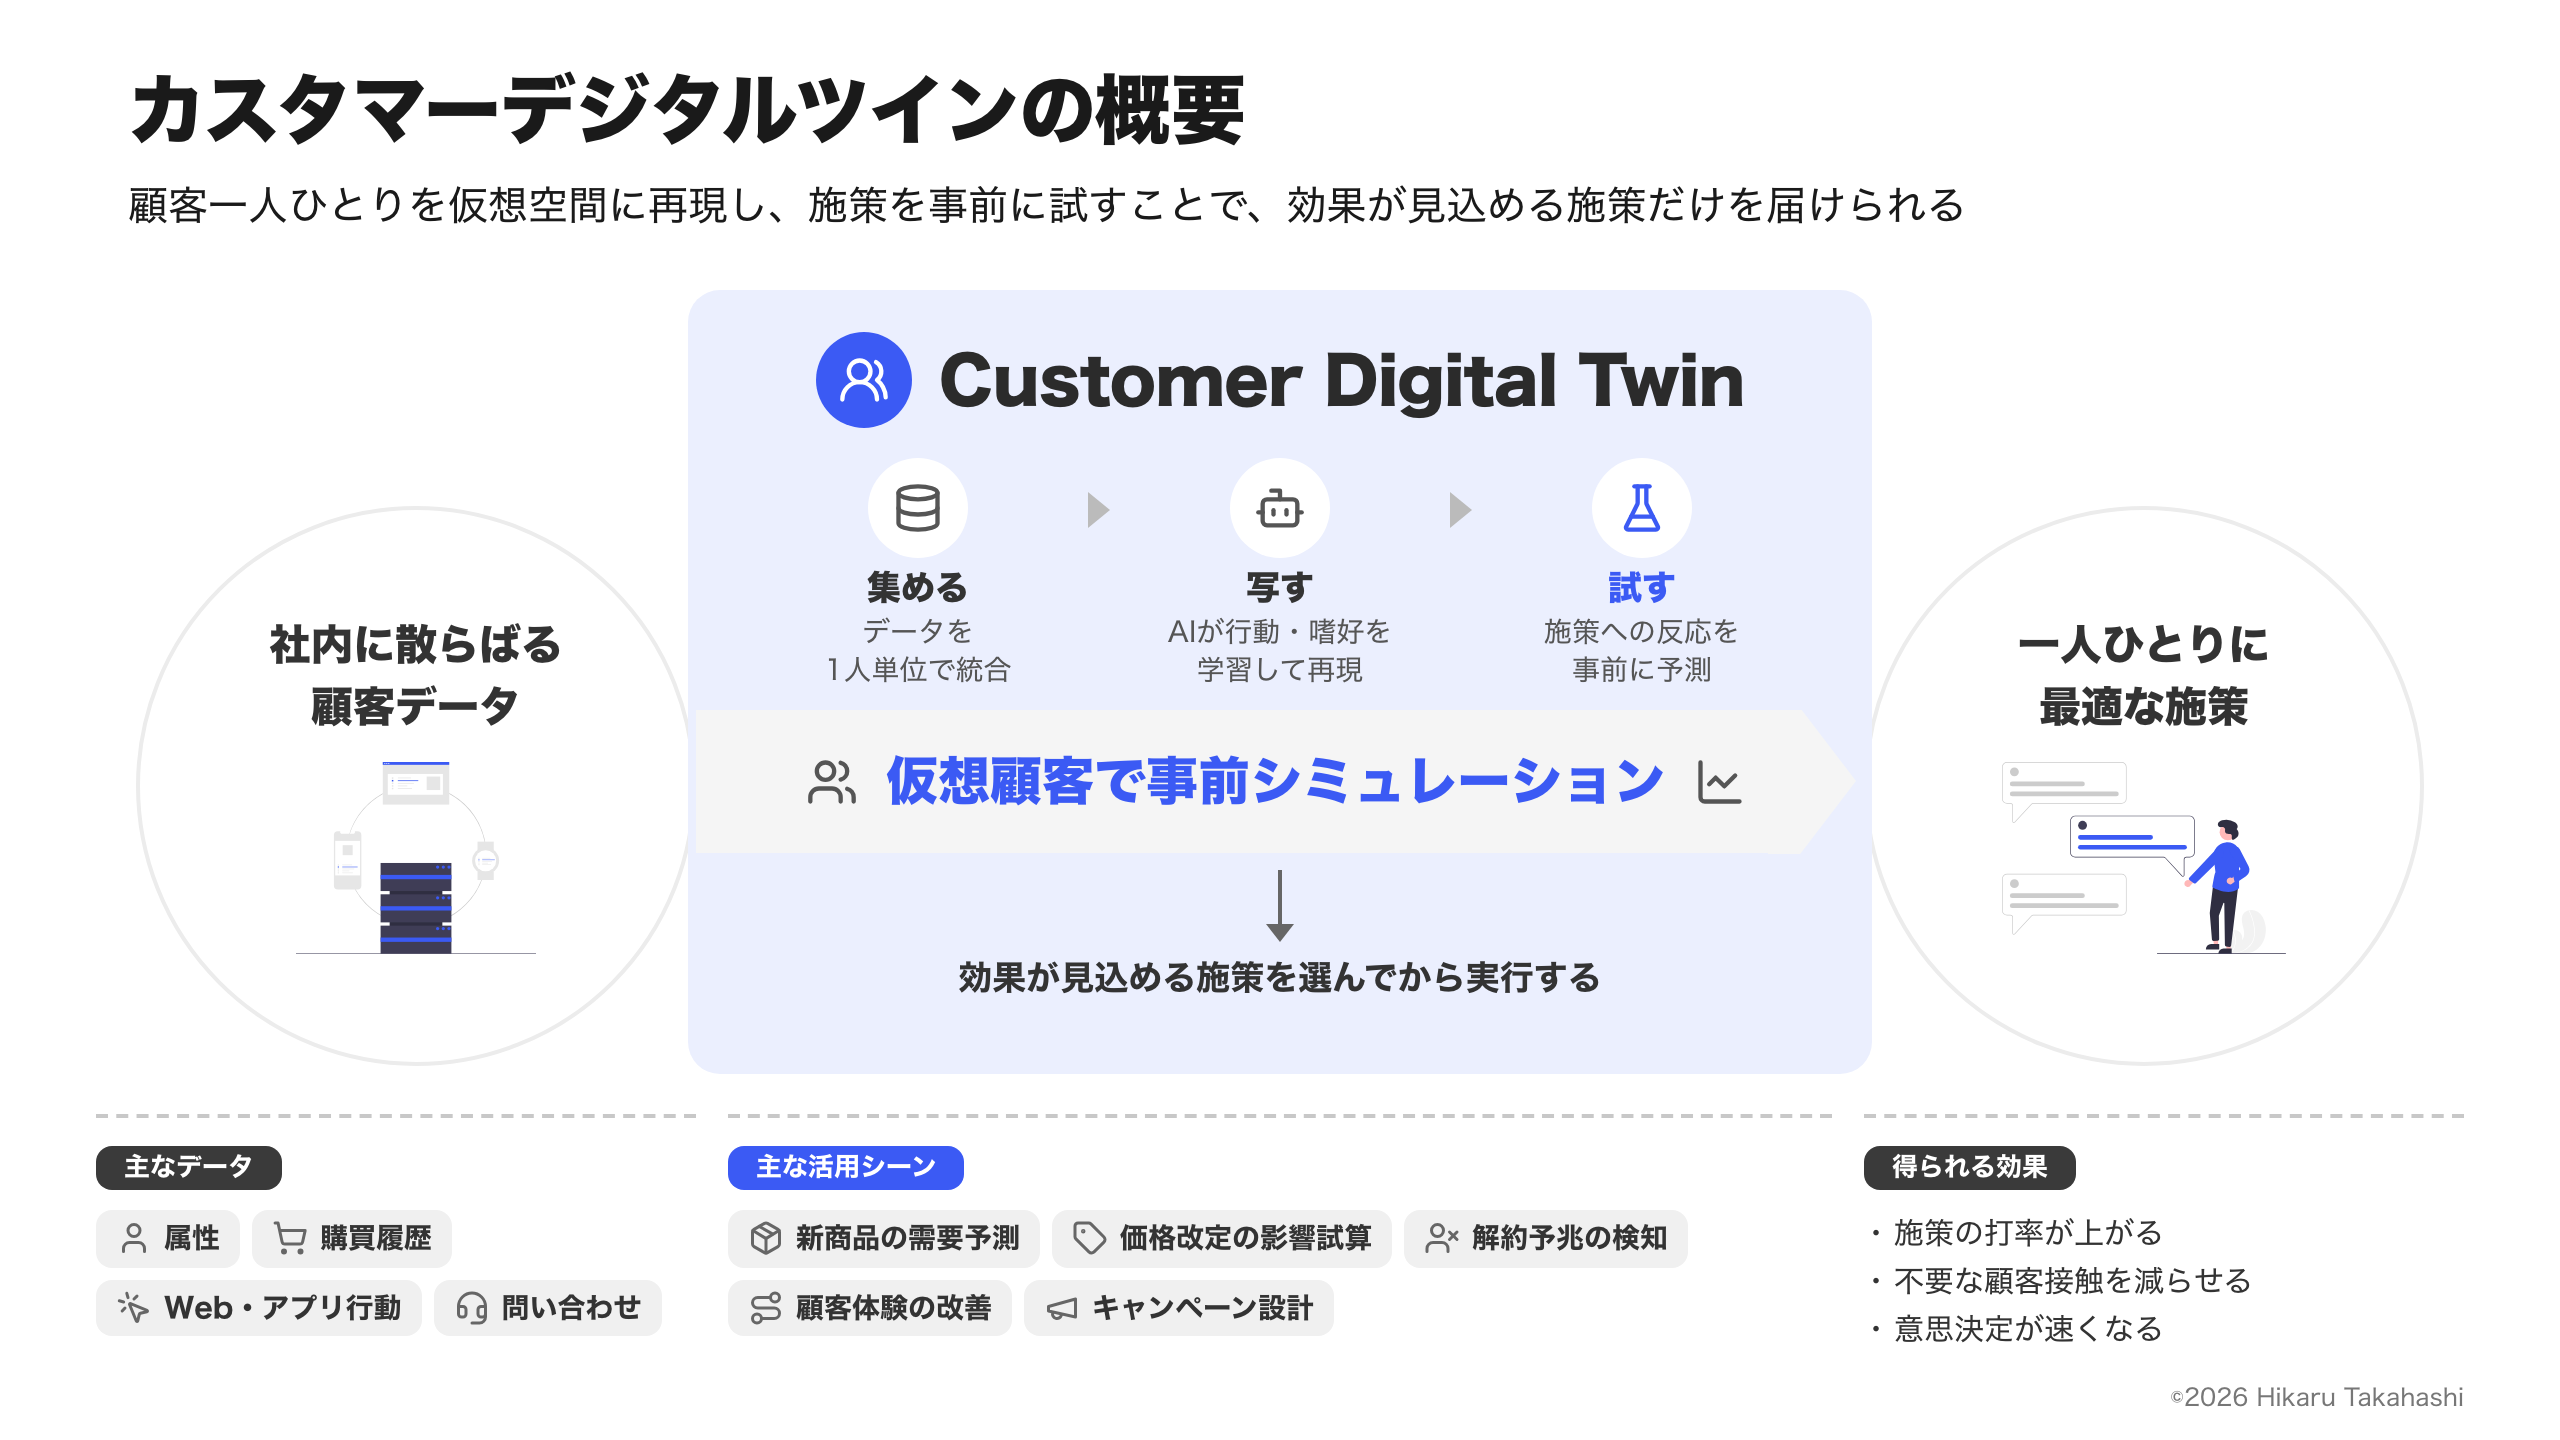
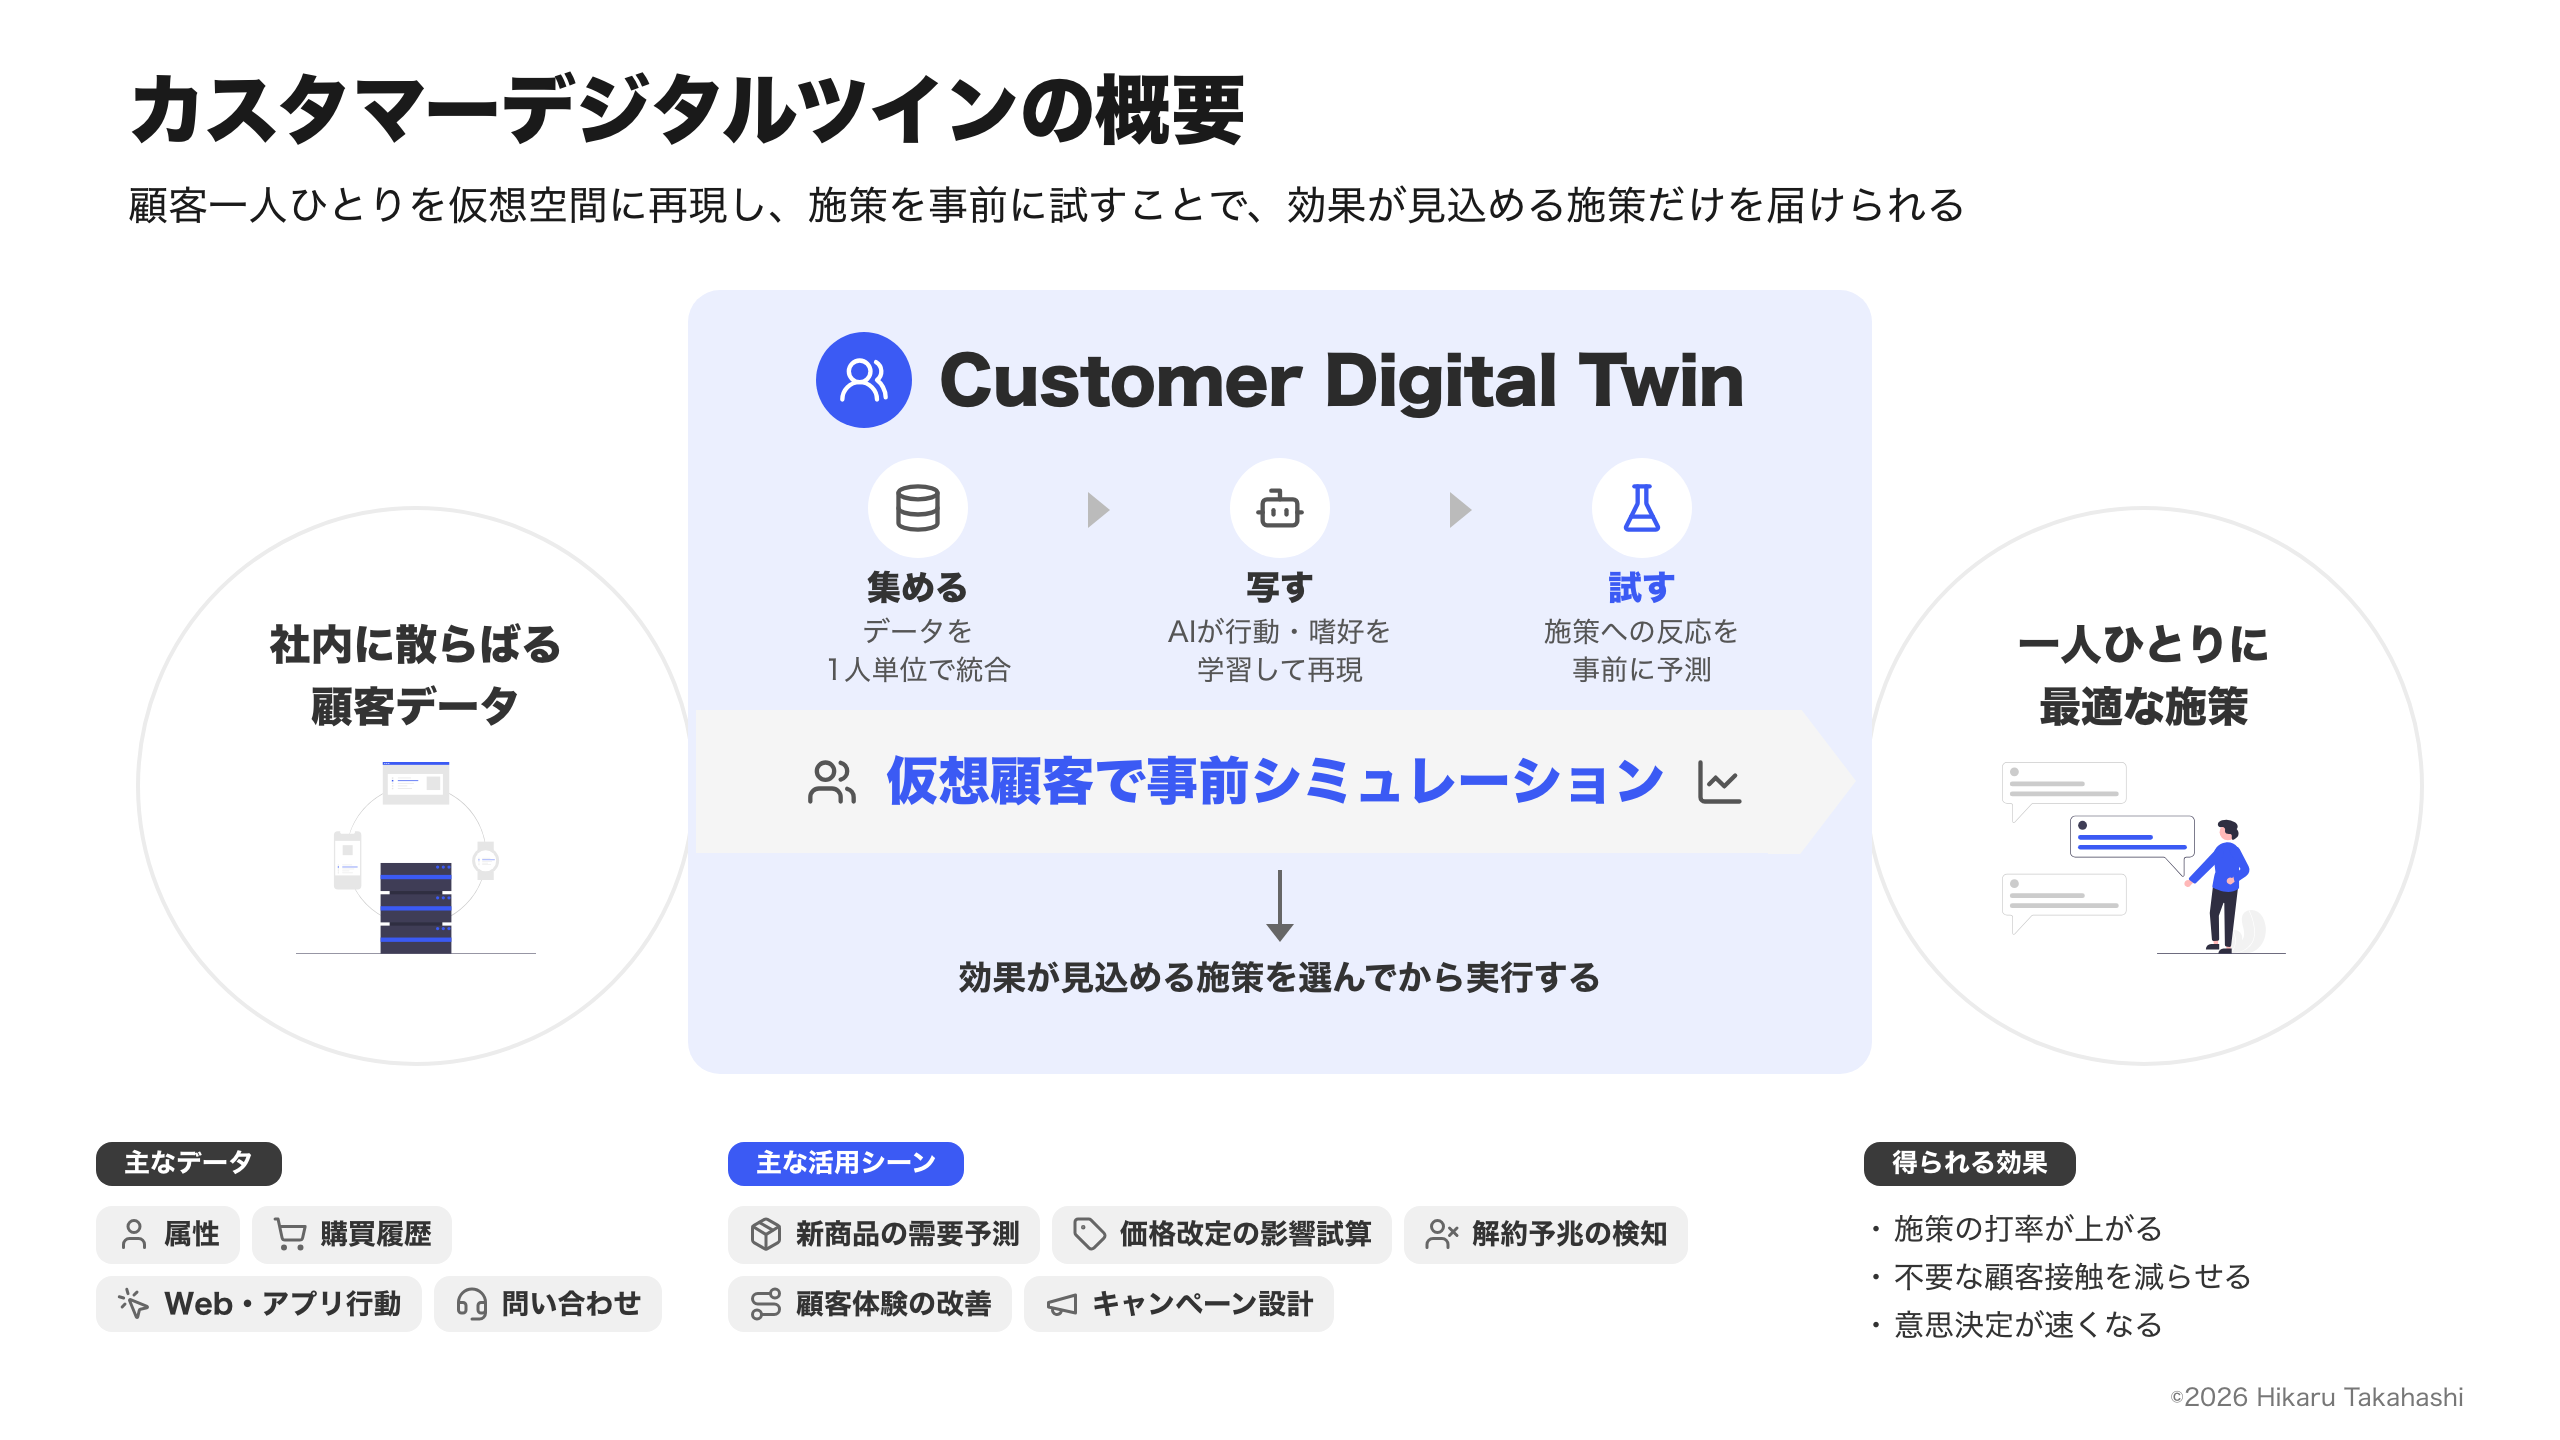
[update] Stop adding dashed separators and bottom bands in ponchi-e

diff --git a/ponchi-e/examples/flow.html b/ponchi-e/examples/flow.html
@@ -22,7 +22,7 @@
   .band { position: absolute; left: 300px; width: 580px; top: 210px; height: 72px; z-index: 2; }
   .band-label { font-size: 26px; font-weight: 800; color: var(--main); }
   .band .icon { width: 26px; height: 26px; }
-  .strip { position: absolute; top: 412px; height: 112px; border-top: 2px dashed var(--line); padding-top: 14px; }
+  .strip { position: absolute; top: 412px; height: 112px; padding-top: 14px; }
   .strip-head { display: flex; align-items: center; gap: 10px; margin-bottom: 10px; }
   .strip-head .pill { font-size: 13px; padding: 1px 14px; }
   .strip ul.dots { font-size: 15px; line-height: 1.6; }

diff --git a/ponchi-e/SKILL.md b/ponchi-e/SKILL.md
@@ -20,7 +20,7 @@ HTML（1280×720）でスライドを組み、`scripts/render.py` で PNG（2560
 | お手本 | ファイル | 向いている内容 |
 |---|---|---|
 | 放射図 | `hub.html` / `hub.png` | 中心となる概念と、それを構成する要素・関係するもの。左右のパネルで立場ごとの価値と主な活用を説明 |
-| 流れ図 | `flow.html` / `flow.png` | インプット → 主役のサービス・仕組み → アウトプット。サービスや構想の概要。下段に要素ごとの補足（データ・活用シーン・効果）を置く |
+| 流れ図 | `flow.html` / `flow.png` | インプット → 主役のサービス・仕組み → アウトプット。サービスや構想の概要。要素ごとの補足（データ・活用シーン・効果）を、各要素の真下に置く |
 | レベル図 | `levels.html` / `levels.png` | 成熟度・スキルレベル・段階と、対象者や提供プランの対応 |
 | タイムライン | `phases.html` / `phases.png` | 進め方・ロードマップ・研修やプロジェクトの工程。最下段に工程ごとの成果物を置く |
 | 比較表 | `compare.html` / `compare.png` | 2〜3案（プラン・選択肢）の比較。おすすめの案だけメインカラーにする |
@@ -38,9 +38,10 @@ HTML（1280×720）でスライドを組み、`scripts/render.py` で PNG（2560
 - **1枚1メタファー**：主役の図は1つだけ。2つ目の図を並べない。
 - **情報量**：主役の図だけで終わらせず、補足情報を添えて具体性を出す。目安は次のとおり。
   - 図の各要素（ステップ・円・工程など）に、1〜2行の短い説明を付ける
-  - 主役の図の下か横に、補足の帯やパネルを置く（主なデータ、活用シーン、効果、成果物、対象者など）。補足は主役の要素の真下・真横に揃えて置き、どの要素の補足かがわかるようにする
+  - 補足（主なデータ、活用シーン、効果、成果物、対象者など）は、主役の図の要素の中か、その真下・真横に揃えて置き、どの要素の補足かがわかるようにする
+  - **図の下に、別の帯を足さない。** 全幅の点線で区切って、調査概要・関連キーワード・まとめのチップや箇条書きを並べた帯は、デザインも内容も弱くなる。伝えたい補足は主役の図の中に入れ、入らない情報は載せない
   - 補足は、ピル型の小見出し＋チップ（`.chip`：小さなグレーのラベル）や、3項目程度の箇条書きで示す
-- **余白**：情報を増やしても、要素の間隔は詰めすぎない。補足の帯は点線（`.dashed-h`）で主役の図と区切り、図全体が上下左右の中央付近に来るように配置する。
+- **余白**：情報を増やしても、要素の間隔は詰めすぎない。主役の図はコンテンツの領域いっぱい（上下とも）に大きく置き、下に大きな空きを残さない。空きを埋めるために帯や要素を足すのではなく、主役の図を大きくする。
 - **色**：
   - メインカラーは `theme.css` の `--main` で決まる（既定は `#3b5af4`）。HTML の中で色コードを直接書かず、`var(--main)` や下記の変数を使う
   - メインカラーは「主役」にだけ使う。中心の円、本題の工程の矢羽根、主役のプラン、本文中の強調語（`.em`）など
@@ -54,11 +55,12 @@ HTML（1280×720）でスライドを組み、`scripts/render.py` で PNG（2560
   - 図の中の主役の数値（目標値・実績など）は 20〜28px の太字にし、単位（億円・% など）は数字より小さくする
   - 補足（注記・単位・添え字）は小さく、グレー（`var(--sub)`）にして本文と区別する
   - キーメッセージは、結論の語句だけを `.em` で強調する（1〜2か所）
-- **形**：角丸の面（`.soft`）、細い線の大きな円（`.ring`）、点線の区切り（`.dashed-h` / `.dashed-v`）、ピル型のラベル（`.pill`）、矢羽根（`.chev`）を使う。
+- **形**：角丸の面（`.soft`）、細い線の大きな円（`.ring`）、ピル型のラベル（`.pill`）、矢羽根（`.chev`）を使う。
 - **角丸の統一**：四角いオブジェクトはすべて角丸にし、半径は2種類にそろえる。
   - 面・カード・パネル（`.soft`、`.soft-gray`、カードの外枠など）：`var(--r)`（16px）
   - 小さな箱・見出し帯・画像の枠・タグ・枠線の箱（`.outline`）：`var(--r-sm)`（8px）
   - 表の列や上下に連結した帯は、外側の角だけを丸める。円・ピル・矢羽根はそのままでよい
+- **区切り**：要素の区切りは余白と面（`.soft` / `.soft-gray`）で表し、点線や罫線の区切り線は引かない。点線（`.dashed-h` / `.dashed-v`）は、タイムラインの期間の境目のように、図の意味として必要な場合だけ使う。
 - **ラベル**：濃いグレーのピル（`.pill`）を基本にし、主役だけメインカラーのピル（`.pill.main`）にする。
 
 ## イラストとアイコン
@@ -75,6 +77,7 @@ HTML（1280×720）でスライドを組み、`scripts/render.py` で PNG（2560
 
 ## NG（AI生成っぽさ・野暮ったさを避ける）
 - 主役の図だけで中身の薄いページ／逆に、小さな文字の多用やブロックを隙間なく敷き詰めるレイアウト
+- 図の下に全幅の点線を引き、その下にチップや箇条書きの帯を足すこと。カードの中を点線で区切ること
 - メインカラーの多用（主役以外までメインカラーにする）
 - グラデーション、ドロップシャドウ、光彩、ぼかし、ガラス風の表現
 - 絵文字（★などの記号は可）
@@ -97,5 +100,6 @@ HTML（1280×720）でスライドを組み、`scripts/render.py` で PNG（2560
    - 文字に強弱がついているか（見出し・太字・主役の数値が、本文より大きく目立っているか）
    - 主役の図がひと目でわかり、メインカラーが主役だけに使われているか
    - 余白と情報量のバランス（図が上や左に偏っていないか、空いた領域が目立っていないか）
+   - 図の下に点線と補足の帯を足していないか、不要な区切り線がないか
    - キーメッセージと図の内容が食い違っていないか
 6. 出力先は、ユーザーの指定がなければカレントディレクトリ。HTML と PNG、`theme.css`、イラストの SVG を同じフォルダに保存する（例：`slide_01.html` と `slide_01.png`）。
